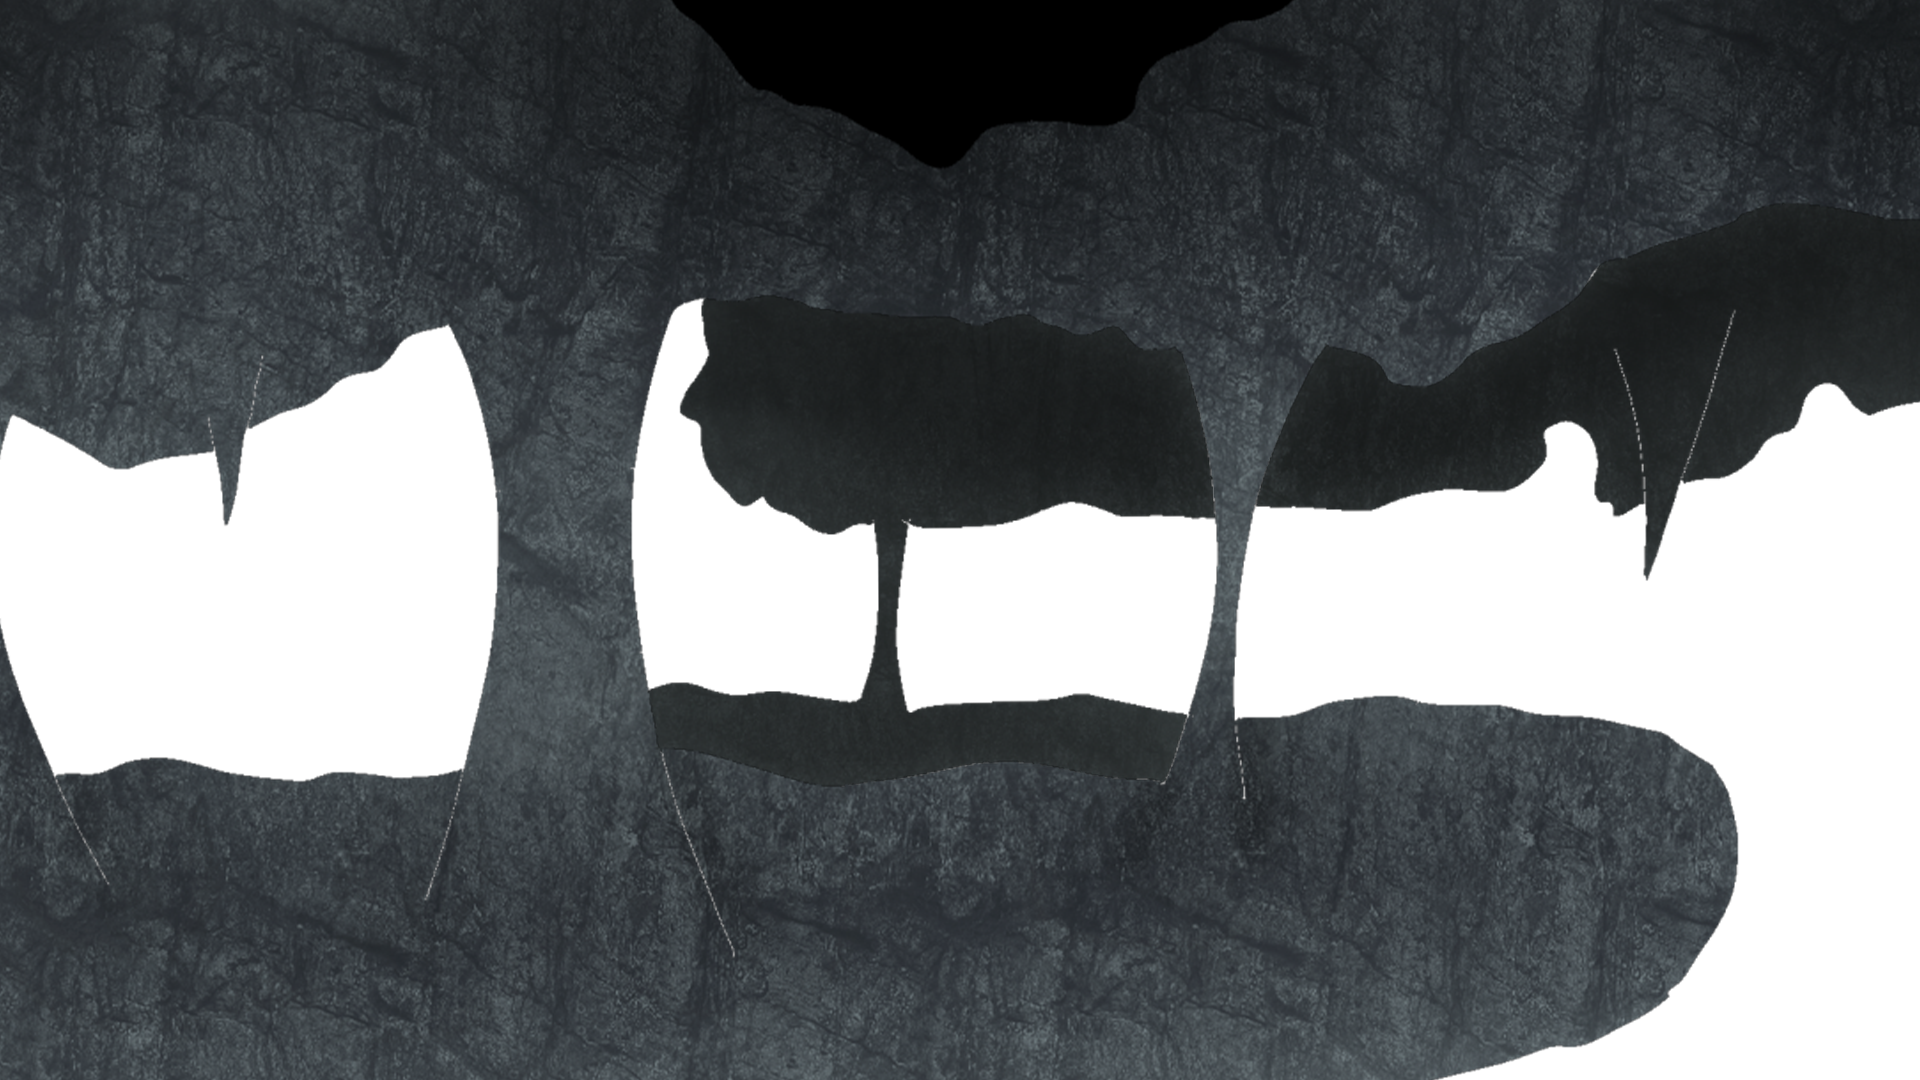
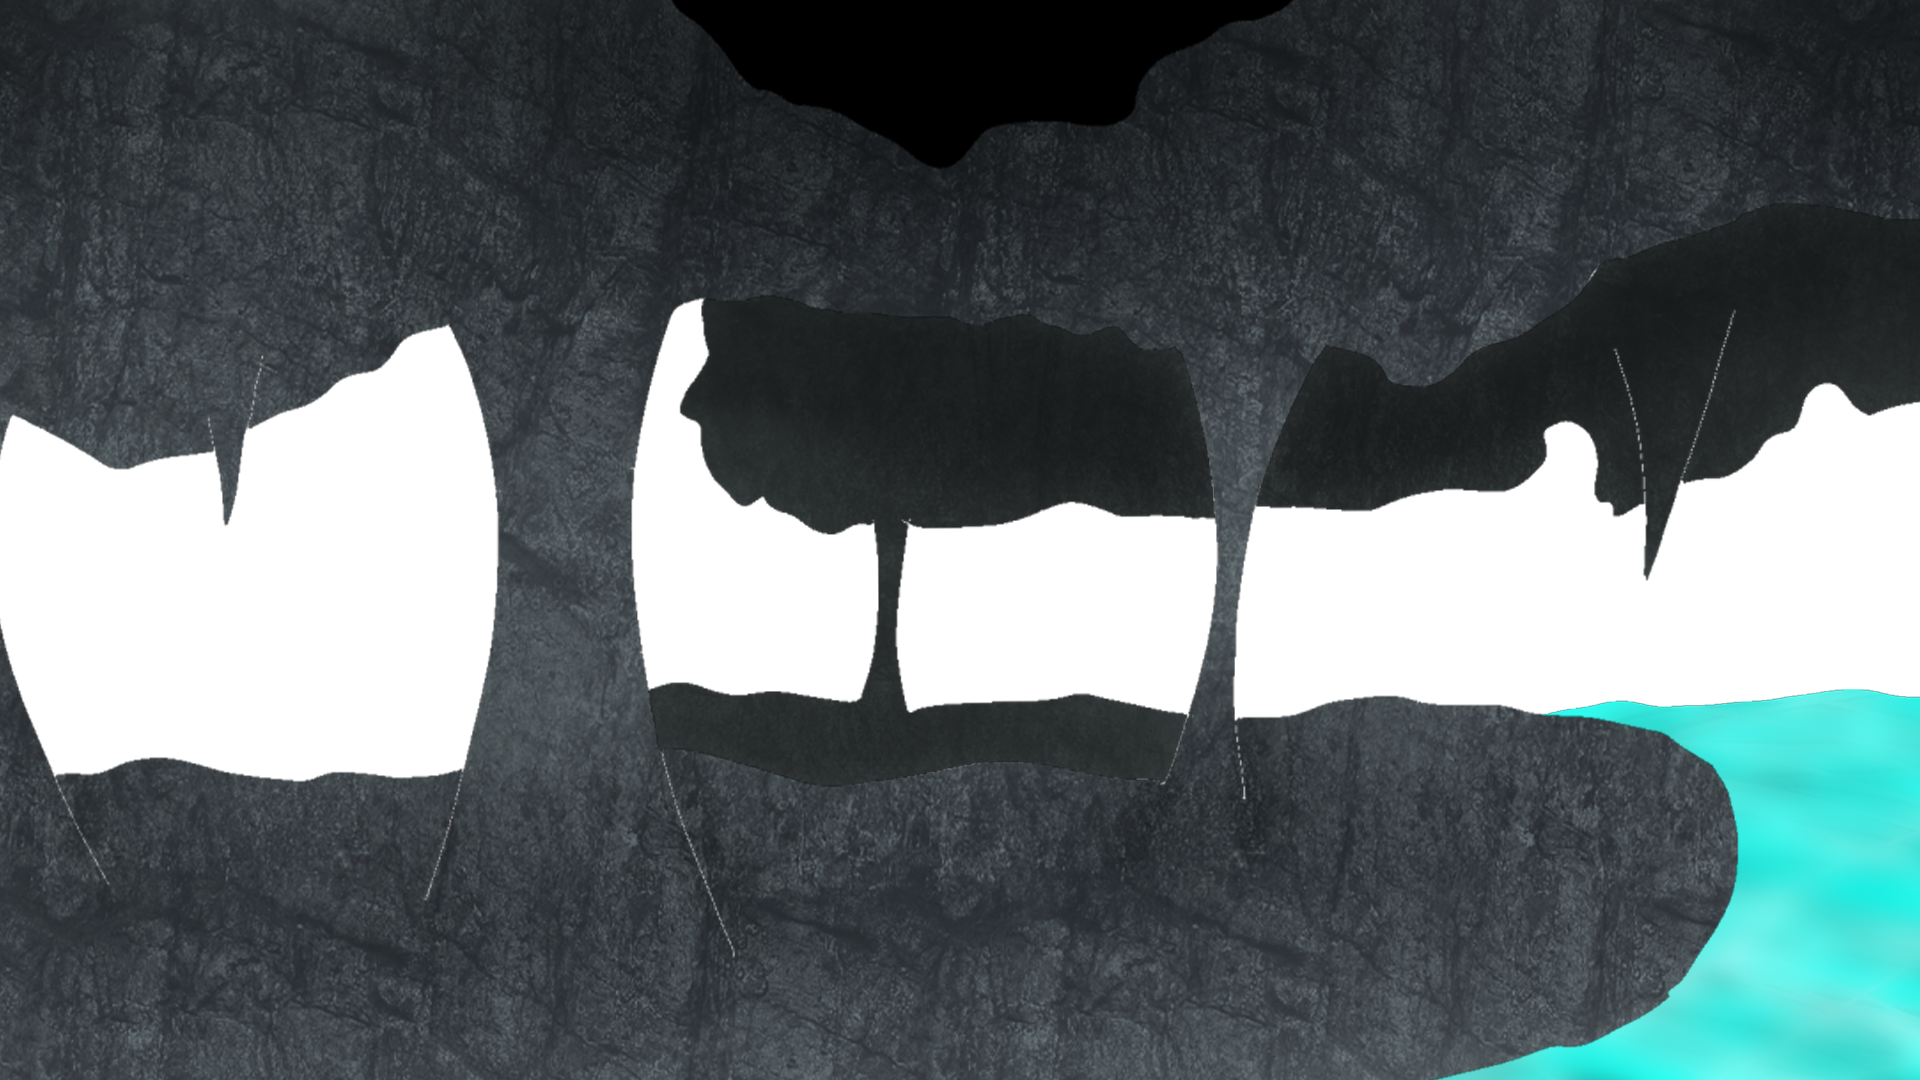
xri

Changed region(s): [[0.75, 0.6417, 1.0, 1.0]]

diff --git a/css/styles.css b/css/styles.css
@@ -161,15 +161,19 @@ main{
 #grotte {
     background-image: url("/img/img_arriere_plan/chapitre_03.png");
     position: relative;
-   
+
     width: 100%;
-    aspect-ratio: 16/9;
-    background-size: cover;
-    background-position: center;
-    background-repeat: no-repeat;
-    box-sizing: border-box;
+    aspect-ratio: 16/9;
+    background-size: cover;
+    background-repeat: no-repeat;
+    box-sizing: border-box;
     display: block;
+ 
    
+}
+.riviere {
+    position: absolute;
+    left: ;
 }
 .grotte1{
     position: absolute;

diff --git a/index.html b/index.html
@@ -35,7 +35,7 @@
 
         </section>
         <section id="grotte">
-    
+    <img clas="riviere"src="/img/img-elements_visuels/grotte_riviere.png" alt="">
         </section>
         <section id="grotte-nage">
       <div class="bubule">
